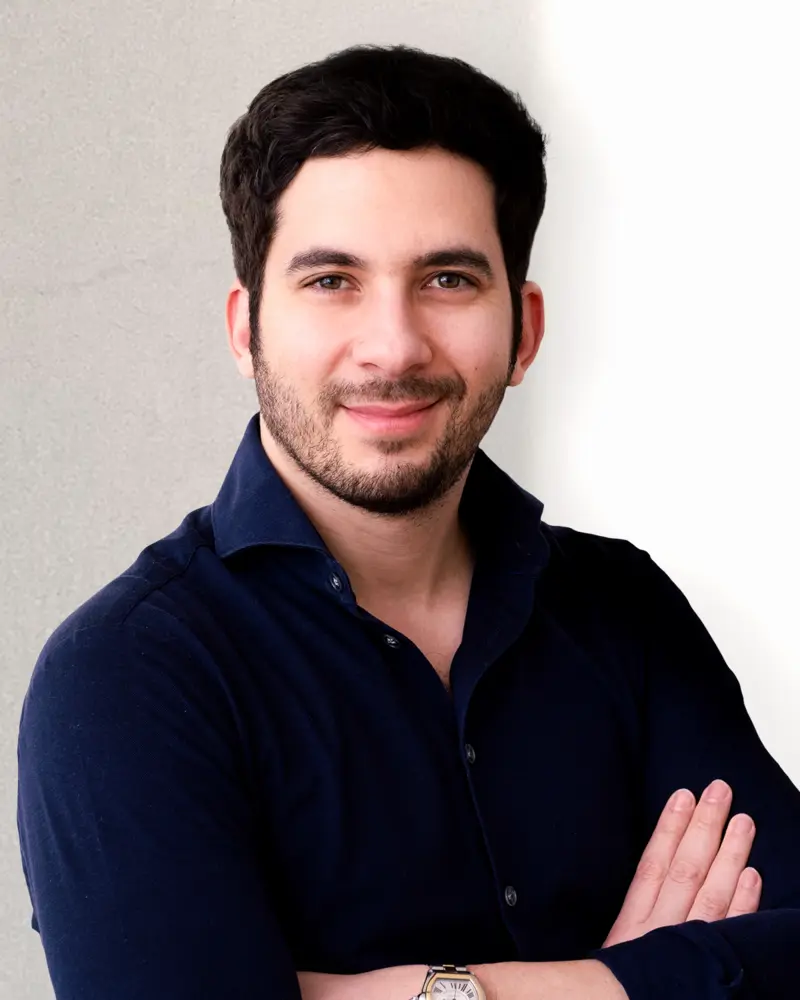
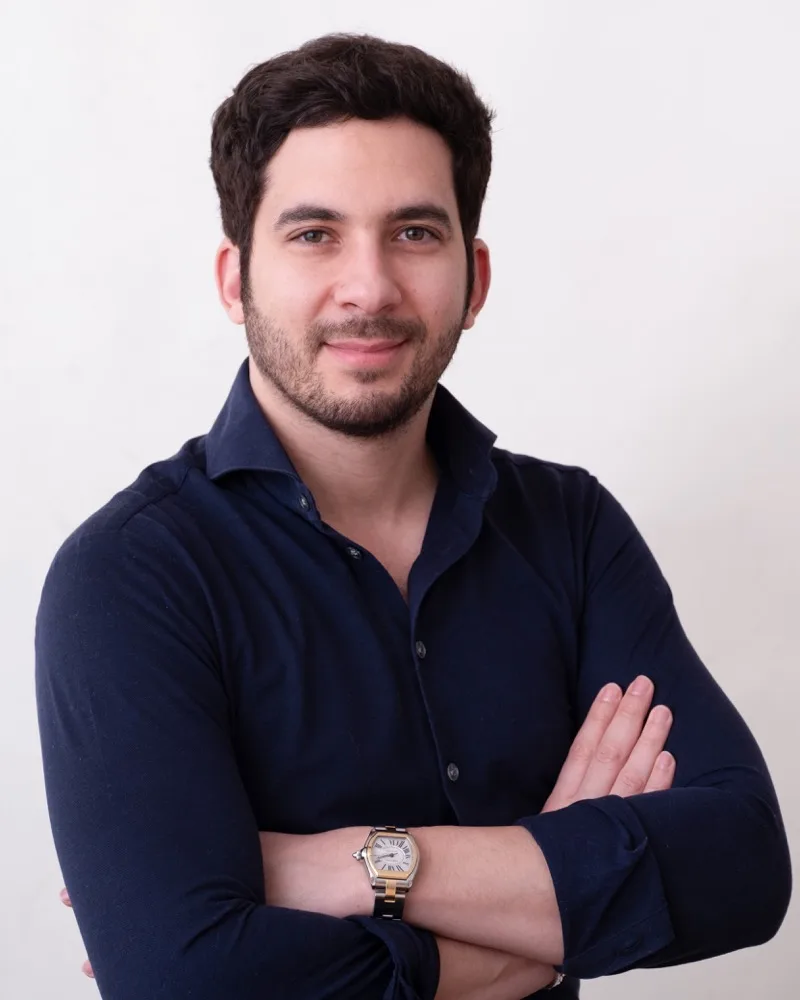
Replace team photos: new Aissa (Thomas DSCF7046) + new Olivier (CEO portrait)
Both cropped to portrait 800x1000, compressed WebP q82.
Removed old CSS zoom hack on Aissa since photo is now properly framed.

diff --git a/src/components/sections/InvestAboutSection.tsx b/src/components/sections/InvestAboutSection.tsx
@@ -23,7 +23,7 @@ const aboutCards = [
   {
     image: AissaImage,
     title: "AISSA, ENKY",
-    imageClass: "object-cover object-[center_20%] scale-[0.9]",
+    imageClass: "object-cover object-top",
     description:
       "En 2013, Aissa cofonde Edebex, une fintech qui totalise aujourd’hui plus d’1Md€+ de volume d’affaires. Il crée en 2019 Enky une entreprise à la frontière de la fintech et du FaaS (Mobilier par abonnement) qui a déjà séduit plus de 180 clients et 4700 investisseurs.",
   },
